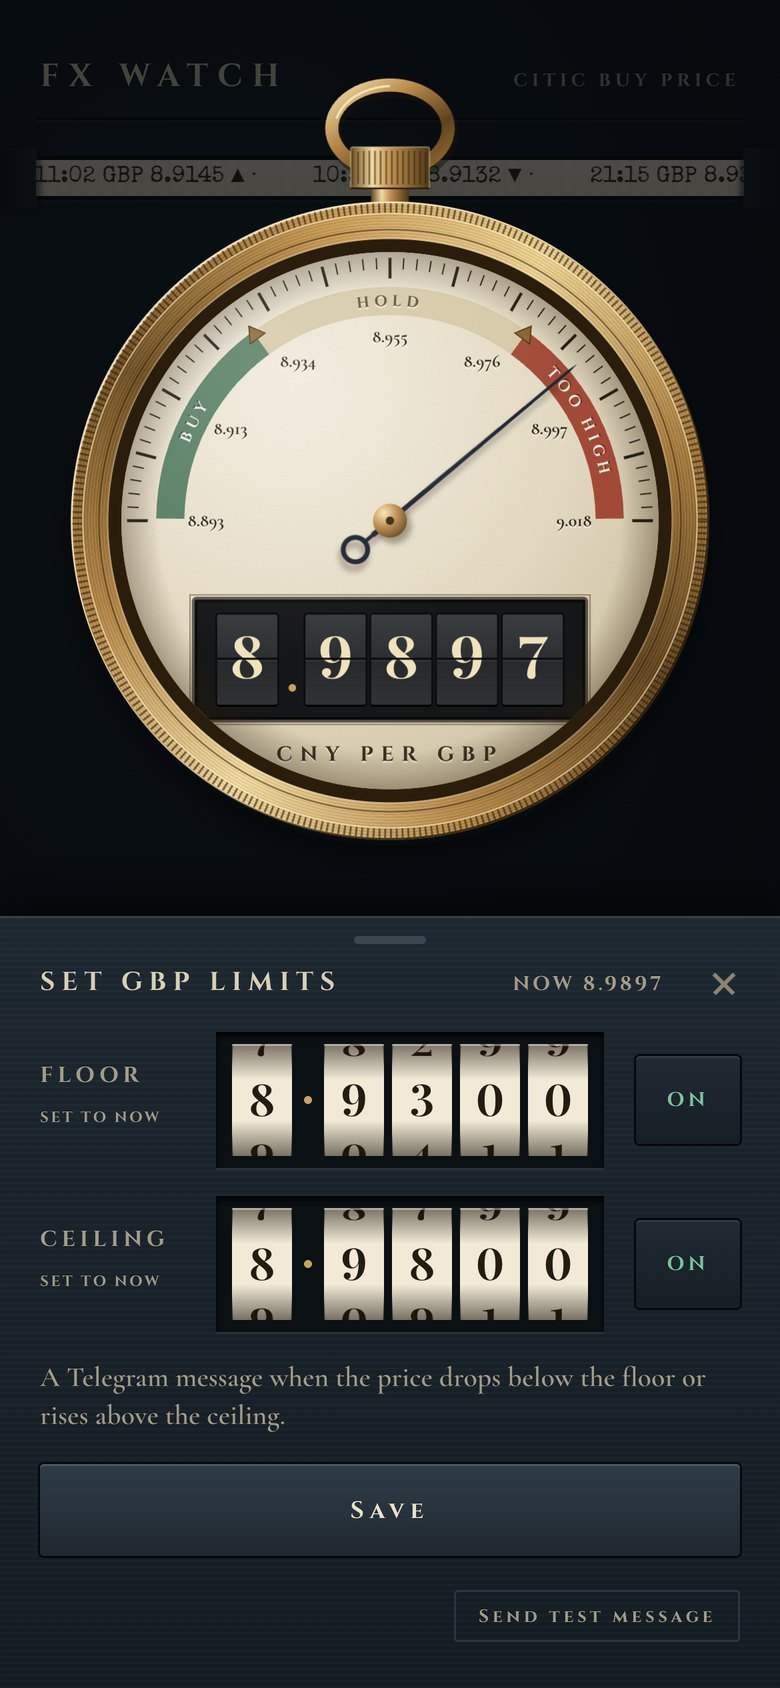
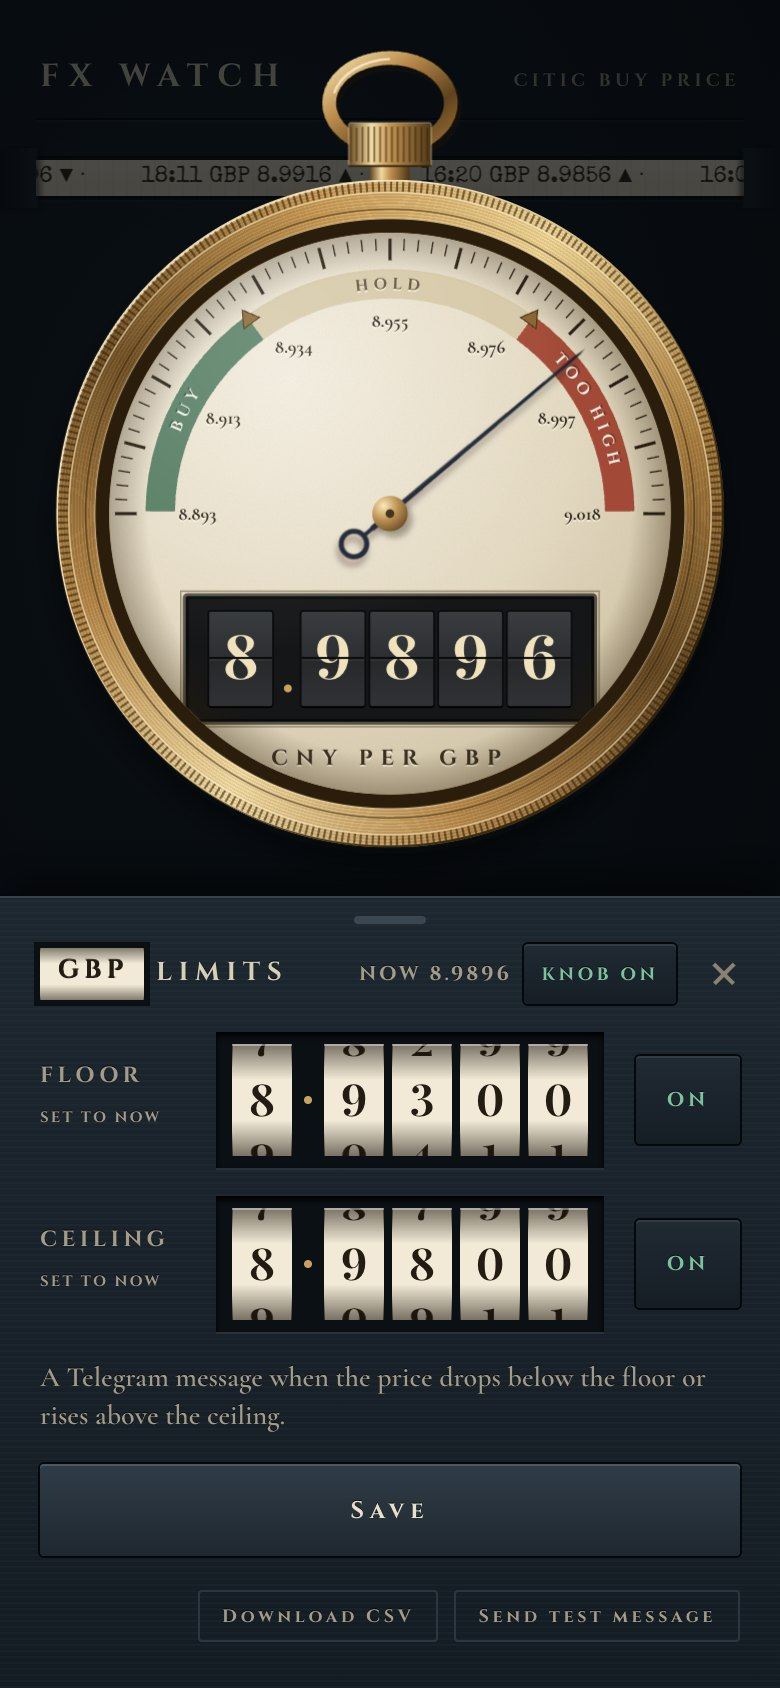
Settings sheet screenshot with the currency wheel and knob switch

diff --git a/README.md b/README.md
@@ -45,7 +45,7 @@ CITIC publishes only its current quote: no history, no alerts. A Cron Trigger po
 - Per side, the alert state records the limit it fired for. It sends once on crossing, repeats every 4 h while the price stays outside, and re-arms only once the price is back inside by more than 0.1% (hysteresis).
 - A failed send is retried on the next check. After 3 failed checks in a row a "checks failing" message goes out, then a "recovered" one.
 
-<p align="center"><img src="docs/sheet.jpg" width="300" alt="The settings sheet open under the watch: floor 8.9300 and ceiling 8.9800 on number wheels, each with an ON switch, and a Save button"></p>
+<p align="center"><img src="docs/sheet.jpg" width="300" alt="The settings sheet open under the watch: a GBP currency wheel and a KNOB ON switch in its title, floor 8.9300 and ceiling 8.9800 on number wheels, each with an ON switch, and a Save button"></p>
 
 **Client**
 - Installable PWA. The service worker is network-first with a cache fallback; cached API responses carry an `X-Offline` timestamp so the page can mark stale data.

diff --git a/README.zh-CN.md b/README.zh-CN.md
@@ -45,7 +45,7 @@
 - 每一侧的提醒状态会记下触发时对应的界限值：越界时发送一次，价格停留在界外期间每 4 小时重复一次；价格回到界内超过 0.1% 后才重新布防（迟滞）。
 - 发送失败会在下一次检查时重试。检查连续失败 3 次后发送“检查失败”通知，恢复后再发一条“已恢复”。
 
-<p align="center"><img src="docs/sheet.jpg" width="300" alt="怀表下方打开的设置面板：下限 8.9300、上限 8.9800 显示在数字滚轮上，各有一个 ON 开关，下面是保存按钮"></p>
+<p align="center"><img src="docs/sheet.jpg" width="300" alt="怀表下方打开的设置面板：标题中是 GBP 币种滚轮和 KNOB ON 开关，下限 8.9300、上限 8.9800 显示在数字滚轮上，各有一个 ON 开关，下面是保存按钮"></p>
 
 **客户端**
 - 可安装的 PWA。Service Worker 采用网络优先、缓存兜底；缓存的 API 响应带 `X-Offline` 时间戳，页面据此标注过期数据。
